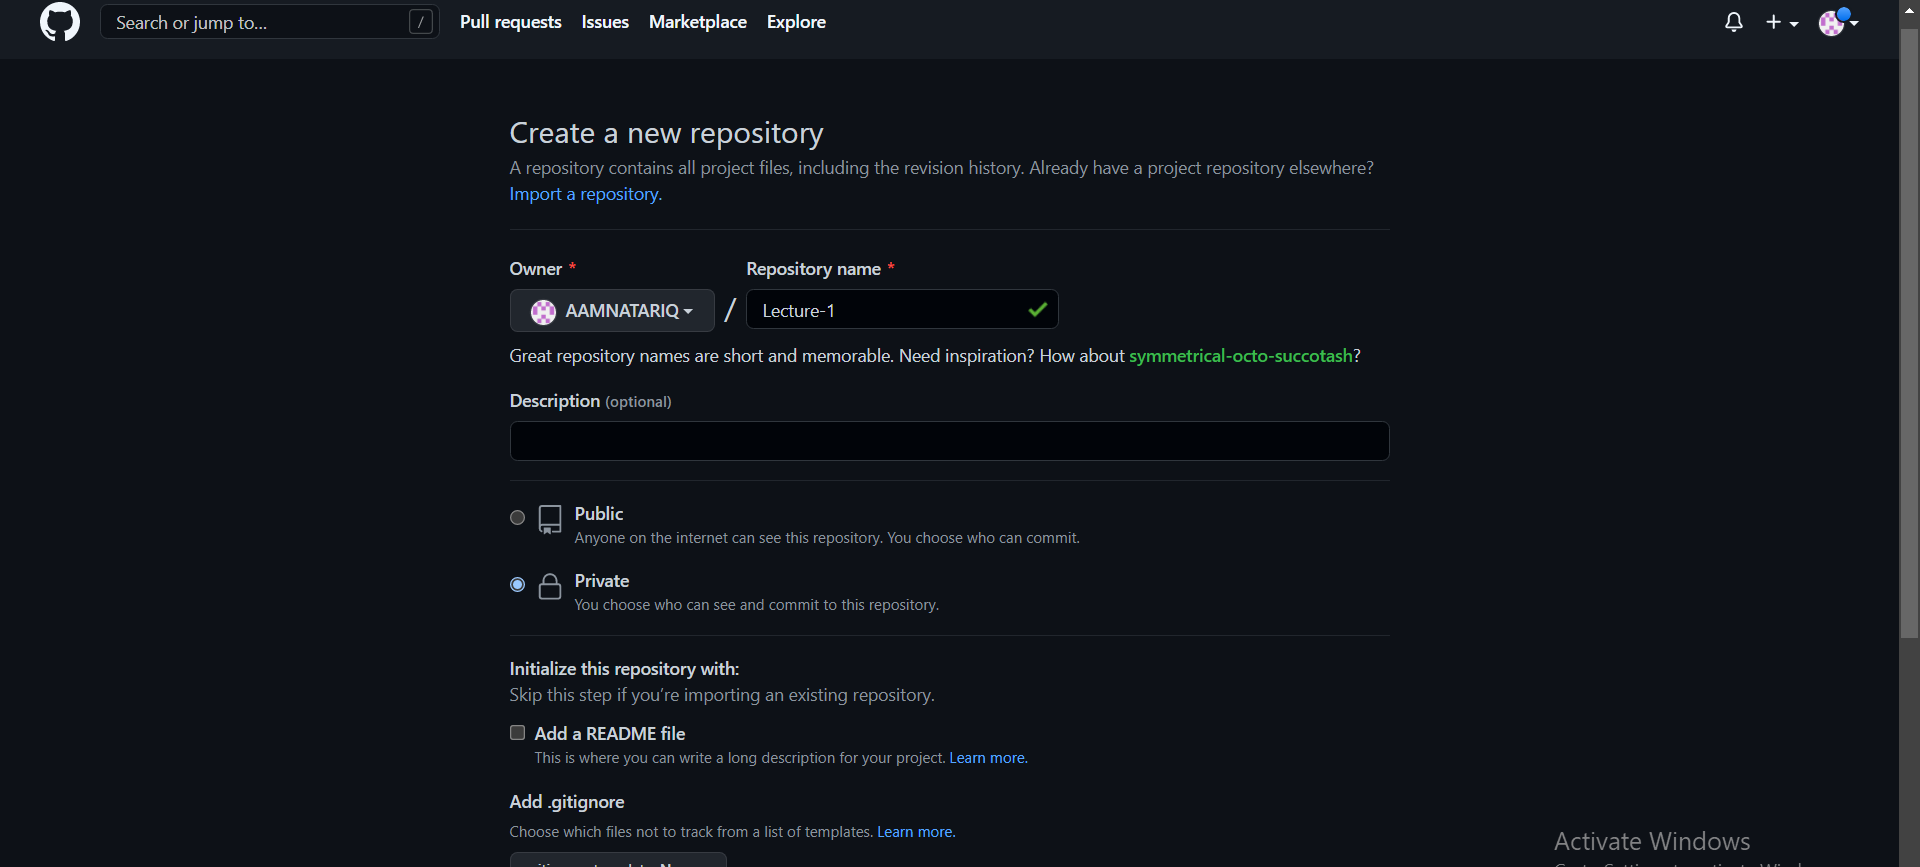
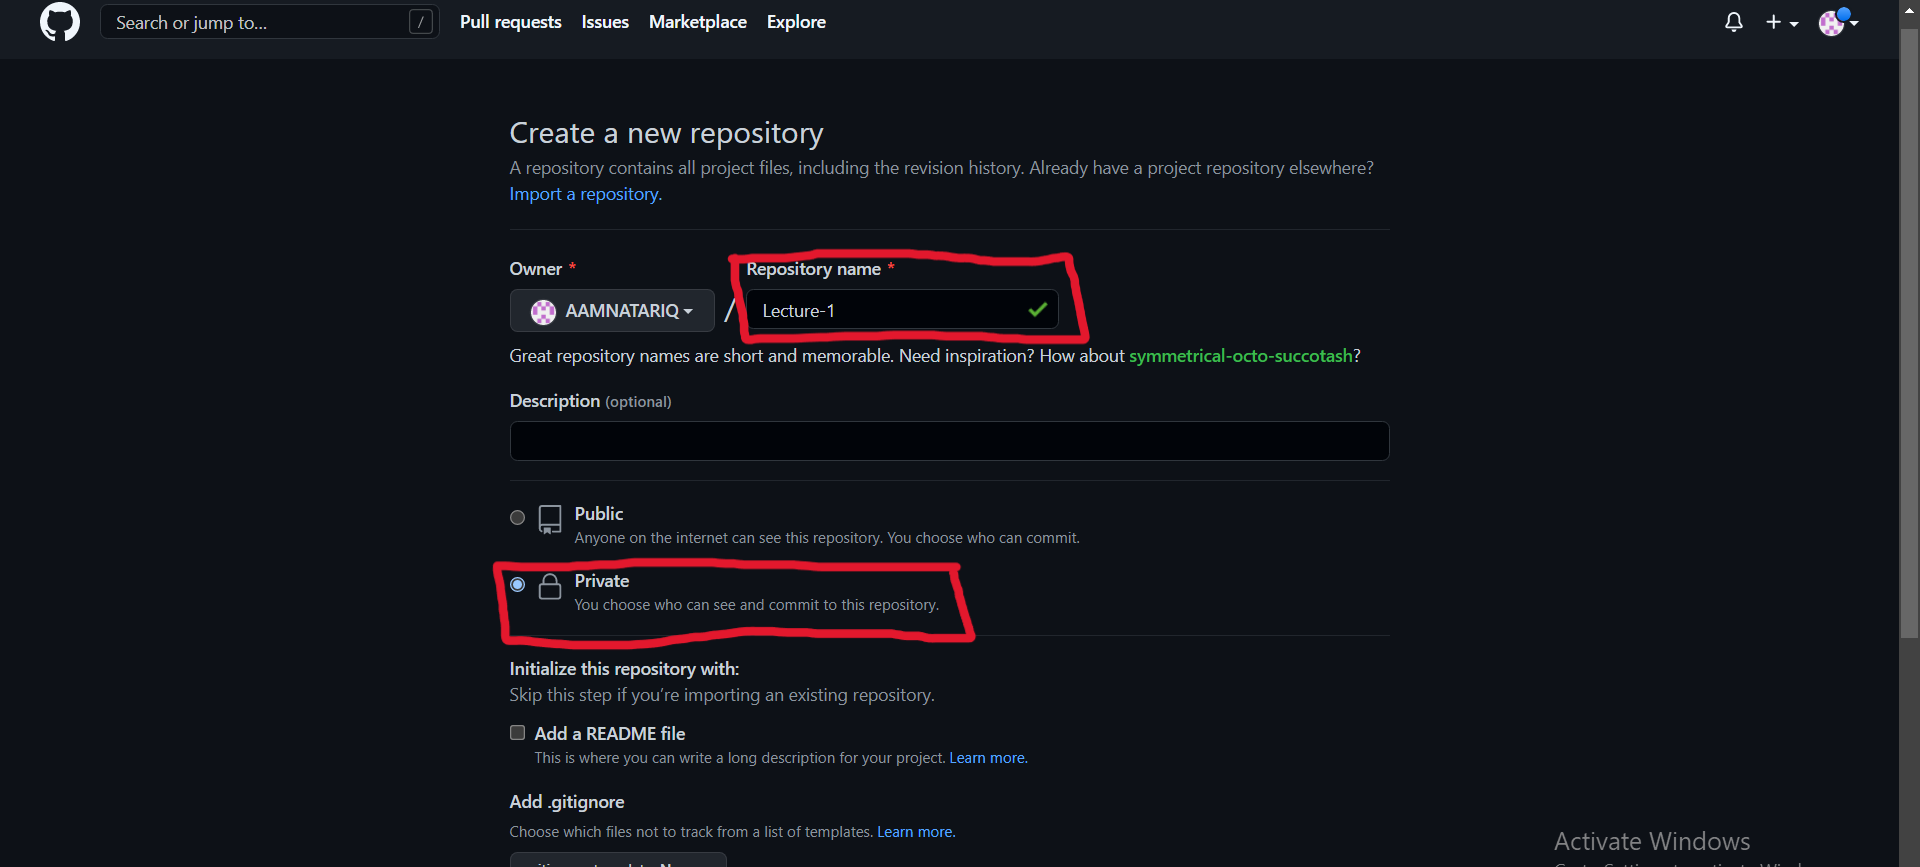
adding content description to step 13 and also editing images

Changed region(s): [[0.25, 0.6228, 0.5312, 0.7474], [0.375, 0.2803, 0.5938, 0.4048]]

diff --git a/f1.html b/f1.html
@@ -253,7 +253,8 @@
           </div>
           <div class="my-3 mx-5">
             <p class="heading">Provide details of repository on your account</p>
-            <p>Now, to make a repository fill in the nescessary information.</p>
+            <p>Now, to make a repository fill in the nescessary information. Name your repository, here it is named as <b>Lecture-1</b> and repository's status is set to private.</p>
+            <p>Setting status to <b>private</b> means that only you can access the repository. While anyone outside won't be able to access it.</p>
             <img src="static/point 13.png" alt="git init command">        
             <p>Create new repository, by clicking the button at the end of the page.</p>
             <img src="static/point 14.png" alt="git init command">        
